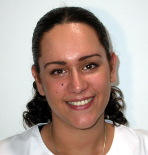
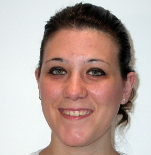
Cambio de higienista

diff --git a/trunk/v2/patrodent/templates/quienes_somos.html b/trunk/v2/patrodent/templates/quienes_somos.html
@@ -59,7 +59,7 @@
                 </div>
                 <div class="box img-indent">
                     <figure class="img-style p2"><img src="{{ STATIC_URL }}images/empleada1.jpg" alt="" /></figure>
-                    <strong>Joana Mazuelos</strong>
+                    <strong>Paqui Domínguez</strong>
                     <span class="bl p1">Higienista dental</span>
                 </div>
                 <div class="box">
